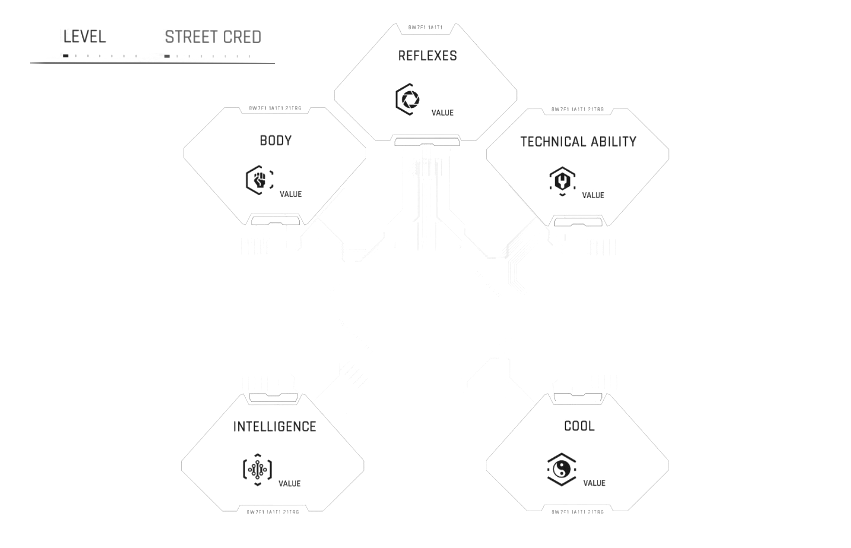
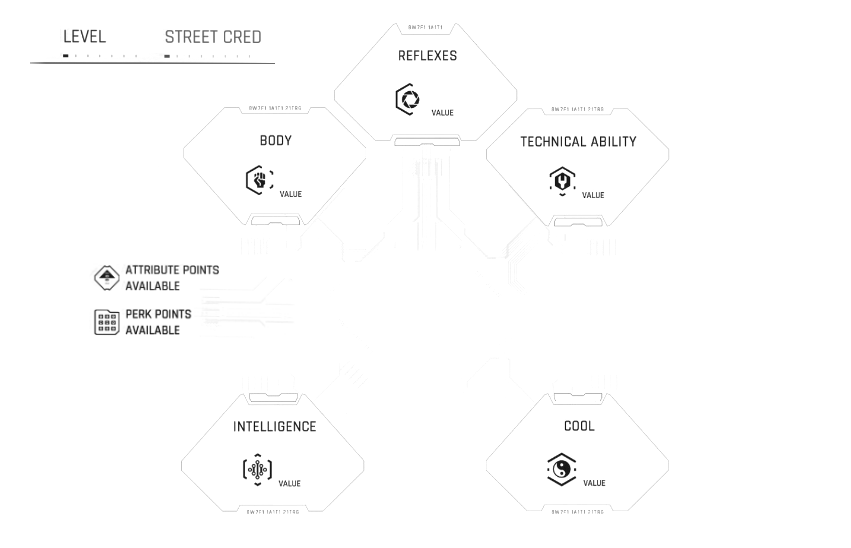
Added perk & attribute points to player stats.

Changed region(s): [[0.0917, 0.5584, 0.2444, 0.6204], [0.0917, 0.4653, 0.275, 0.5274]]

diff --git a/CP2077SaveEditor/Form1.Designer.cs b/CP2077SaveEditor/Form1.Designer.cs
@@ -103,6 +103,8 @@ namespace CP2077SaveEditor
             this.factsNameHeader = ((System.Windows.Forms.ColumnHeader)(new System.Windows.Forms.ColumnHeader()));
             this.openSaveButton = new CP2077SaveEditor.ModernButton();
             this.statsPanel = new System.Windows.Forms.Panel();
+            this.perkPointsUpDown = new System.Windows.Forms.NumericUpDown();
+            this.attrPointsUpDown = new System.Windows.Forms.NumericUpDown();
             this.lifePathBox = new System.Windows.Forms.ComboBox();
             this.lifePathPictureBox = new System.Windows.Forms.PictureBox();
             this.coolUpDown = new System.Windows.Forms.NumericUpDown();
@@ -125,6 +127,8 @@ namespace CP2077SaveEditor
             ((System.ComponentModel.ISupportInitialize)(this.moneyUpDown)).BeginInit();
             this.factsPanel.SuspendLayout();
             this.statsPanel.SuspendLayout();
+            ((System.ComponentModel.ISupportInitialize)(this.perkPointsUpDown)).BeginInit();
+            ((System.ComponentModel.ISupportInitialize)(this.attrPointsUpDown)).BeginInit();
             ((System.ComponentModel.ISupportInitialize)(this.lifePathPictureBox)).BeginInit();
             ((System.ComponentModel.ISupportInitialize)(this.coolUpDown)).BeginInit();
             ((System.ComponentModel.ISupportInitialize)(this.intelligenceUpDown)).BeginInit();
@@ -878,9 +882,9 @@ namespace CP2077SaveEditor
             this.addFactButton.ClickEffectEnabled = true;
             this.addFactButton.DefaultColor = System.Drawing.Color.White;
             this.addFactButton.HoverColor = System.Drawing.Color.LightGray;
-            this.addFactButton.Location = new System.Drawing.Point(719, 1);
+            this.addFactButton.Location = new System.Drawing.Point(728, -1);
             this.addFactButton.Name = "addFactButton";
-            this.addFactButton.Size = new System.Drawing.Size(20, 20);
+            this.addFactButton.Size = new System.Drawing.Size(20, 18);
             this.addFactButton.TabIndex = 2;
             this.addFactButton.Text = "+";
             this.addFactButton.TextColor = System.Drawing.SystemColors.ControlText;
@@ -952,6 +956,8 @@ namespace CP2077SaveEditor
             // 
             this.statsPanel.BackgroundImage = global::CP2077SaveEditor.Properties.Resources.player_stats;
             this.statsPanel.BackgroundImageLayout = System.Windows.Forms.ImageLayout.None;
+            this.statsPanel.Controls.Add(this.perkPointsUpDown);
+            this.statsPanel.Controls.Add(this.attrPointsUpDown);
             this.statsPanel.Controls.Add(this.lifePathBox);
             this.statsPanel.Controls.Add(this.lifePathPictureBox);
             this.statsPanel.Controls.Add(this.coolUpDown);
@@ -966,6 +972,32 @@ namespace CP2077SaveEditor
             this.statsPanel.Name = "statsPanel";
             this.statsPanel.Size = new System.Drawing.Size(851, 548);
             this.statsPanel.TabIndex = 14;
+            // 
+            // perkPointsUpDown
+            // 
+            this.perkPointsUpDown.Font = new System.Drawing.Font("Segoe UI", 9.75F, System.Drawing.FontStyle.Regular, System.Drawing.GraphicsUnit.Point, ((byte)(0)));
+            this.perkPointsUpDown.Location = new System.Drawing.Point(44, 310);
+            this.perkPointsUpDown.Maximum = new decimal(new int[] {
+            999,
+            0,
+            0,
+            0});
+            this.perkPointsUpDown.Name = "perkPointsUpDown";
+            this.perkPointsUpDown.Size = new System.Drawing.Size(45, 25);
+            this.perkPointsUpDown.TabIndex = 22;
+            // 
+            // attrPointsUpDown
+            // 
+            this.attrPointsUpDown.Font = new System.Drawing.Font("Segoe UI", 9.75F, System.Drawing.FontStyle.Regular, System.Drawing.GraphicsUnit.Point, ((byte)(0)));
+            this.attrPointsUpDown.Location = new System.Drawing.Point(44, 266);
+            this.attrPointsUpDown.Maximum = new decimal(new int[] {
+            999,
+            0,
+            0,
+            0});
+            this.attrPointsUpDown.Name = "attrPointsUpDown";
+            this.attrPointsUpDown.Size = new System.Drawing.Size(45, 25);
+            this.attrPointsUpDown.TabIndex = 21;
             // 
             // lifePathBox
             // 
@@ -1196,6 +1228,8 @@ namespace CP2077SaveEditor
             this.factsPanel.ResumeLayout(false);
             this.factsPanel.PerformLayout();
             this.statsPanel.ResumeLayout(false);
+            ((System.ComponentModel.ISupportInitialize)(this.perkPointsUpDown)).EndInit();
+            ((System.ComponentModel.ISupportInitialize)(this.attrPointsUpDown)).EndInit();
             ((System.ComponentModel.ISupportInitialize)(this.lifePathPictureBox)).EndInit();
             ((System.ComponentModel.ISupportInitialize)(this.coolUpDown)).EndInit();
             ((System.ComponentModel.ISupportInitialize)(this.intelligenceUpDown)).EndInit();
@@ -1291,6 +1325,8 @@ namespace CP2077SaveEditor
         private System.Windows.Forms.ComboBox lifePathBox;
         private System.Windows.Forms.PictureBox lifePathPictureBox;
         private ModernButton clearQuestFlagsButton;
+        private System.Windows.Forms.NumericUpDown perkPointsUpDown;
+        private System.Windows.Forms.NumericUpDown attrPointsUpDown;
     }
 }
 

diff --git a/CP2077SaveEditor/Form1.cs b/CP2077SaveEditor/Form1.cs
@@ -67,6 +67,8 @@ namespace CP2077SaveEditor
             technicalAbilityUpDown.ValueChanged += PlayerStatChanged;
             intelligenceUpDown.ValueChanged += PlayerStatChanged;
             coolUpDown.ValueChanged += PlayerStatChanged;
+            perkPointsUpDown.ValueChanged += PlayerStatChanged;
+            attrPointsUpDown.ValueChanged += PlayerStatChanged;
 
             itemClasses = JsonConvert.DeserializeObject<Dictionary<string, string>>(CP2077SaveEditor.Properties.Resources.ItemClasses);
         }
@@ -356,6 +358,11 @@ namespace CP2077SaveEditor
                 {
                     lifePathBox.SelectedIndex = 2;
                 }
+
+                var points = activeSaveFile.GetPlayerDevelopmentData().Value.DevPoints;
+
+                perkPointsUpDown.Value = points[Array.FindIndex(points, x => x.Type == CyberCAT.Core.DumpedEnums.gamedataDevelopmentPointType.Primary)].Unspent;
+                attrPointsUpDown.Value = points[Array.FindIndex(points, x => x.Type == null)].Unspent;
 
                 //Update controls
                 loadingSave = false;
@@ -675,6 +682,11 @@ namespace CP2077SaveEditor
                 attrs[Array.FindIndex(attrs, x => x.AttributeName == CyberCAT.Core.DumpedEnums.gamedataStatType.TechnicalAbility)].Value = (int)technicalAbilityUpDown.Value;
                 attrs[Array.FindIndex(attrs, x => x.AttributeName == CyberCAT.Core.DumpedEnums.gamedataStatType.Intelligence)].Value = (int)intelligenceUpDown.Value;
                 attrs[Array.FindIndex(attrs, x => x.AttributeName == CyberCAT.Core.DumpedEnums.gamedataStatType.Cool)].Value = (int)coolUpDown.Value;
+
+                var points = activeSaveFile.GetPlayerDevelopmentData().Value.DevPoints;
+
+                points[Array.FindIndex(points, x => x.Type == CyberCAT.Core.DumpedEnums.gamedataDevelopmentPointType.Primary)].Unspent = (int)perkPointsUpDown.Value;
+                points[Array.FindIndex(points, x => x.Type == null)].Unspent = (int)attrPointsUpDown.Value;
             }
         }
     }
